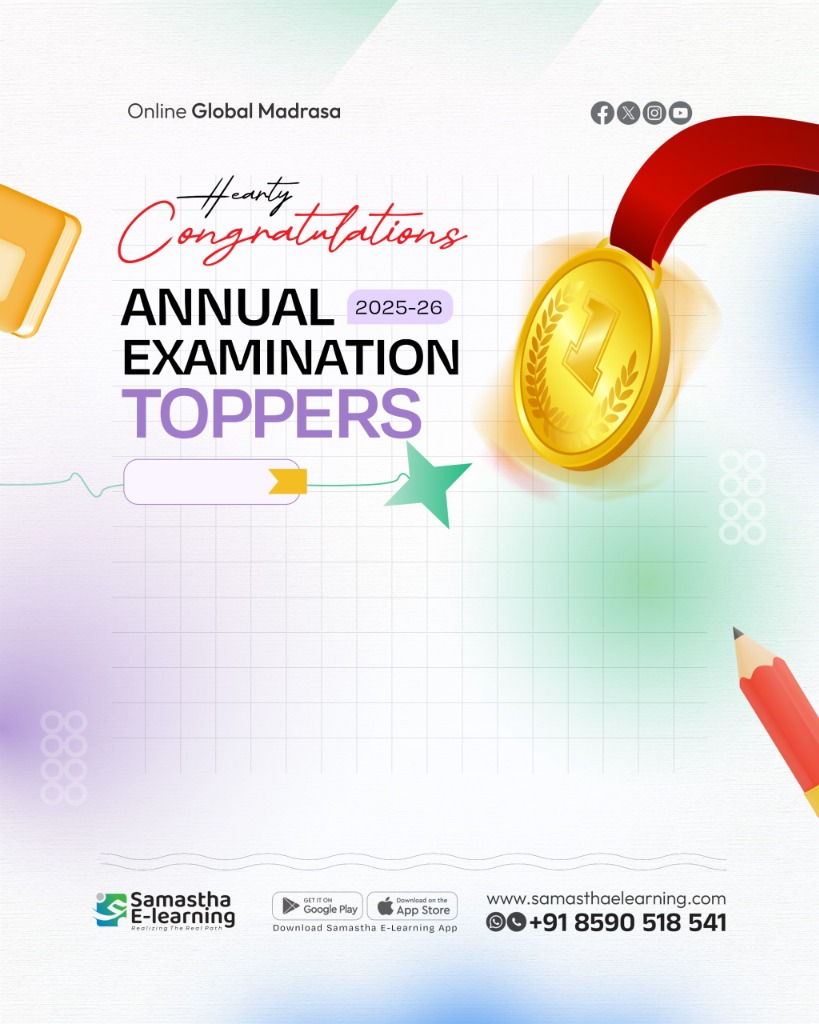
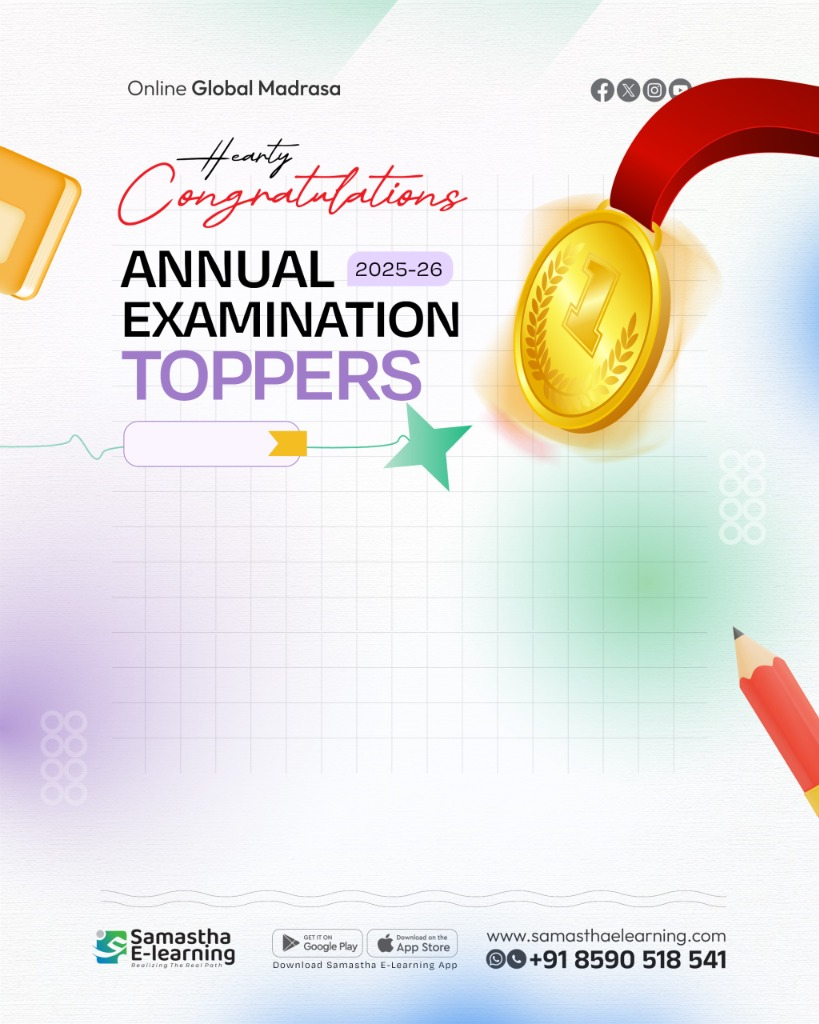
style(poster): center elements on new background design and tweak class name font

diff --git a/src/components/ui/ToppersPosterTemplate.jsx b/src/components/ui/ToppersPosterTemplate.jsx
@@ -36,10 +36,10 @@ export const ToppersPosterTemplate = forwardRef(({ topStudents, className }, ref
                 <div
                     style={{
                         position: 'absolute',
-                        top: '595px',
-                        left: '130px', /* Shifted left to avoid yellow badge overlap */
-                        fontSize: '36px',
-                        fontWeight: '800',
+                        top: '580px', /* Centered vertically in new banner */
+                        left: '210px', /* Shifted right to fit inside new banner */
+                        fontSize: '34px',
+                        fontWeight: '600', /* Reduced boldness */
                         color: '#1f2937',
                         letterSpacing: '0.5px'
                     }}
@@ -51,7 +51,7 @@ export const ToppersPosterTemplate = forwardRef(({ topStudents, className }, ref
                 <div style={{
                     position: 'absolute',
                     top: '710px', /* Shifted slightly up */
-                    left: '60px', /* Shifted left to match bounded width */
+                    left: '120px', /* Centered horizontally: (1080 - 840) / 2 = 120 */
                     width: '840px', /* Reduced width to avoid pencil overlap */
                     display: 'flex',
                     flexDirection: 'column',
